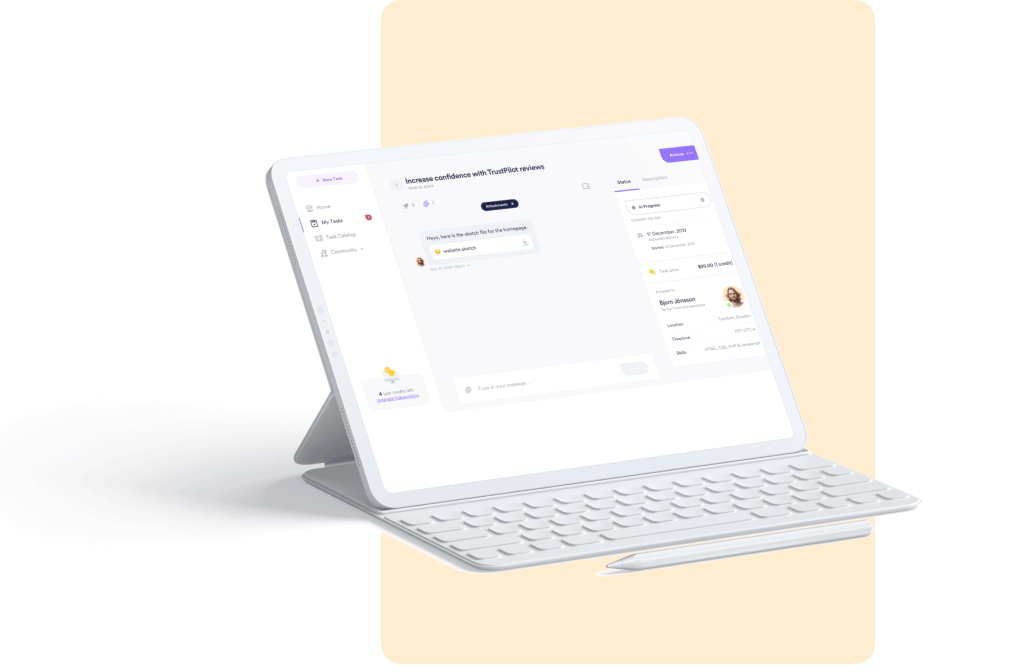
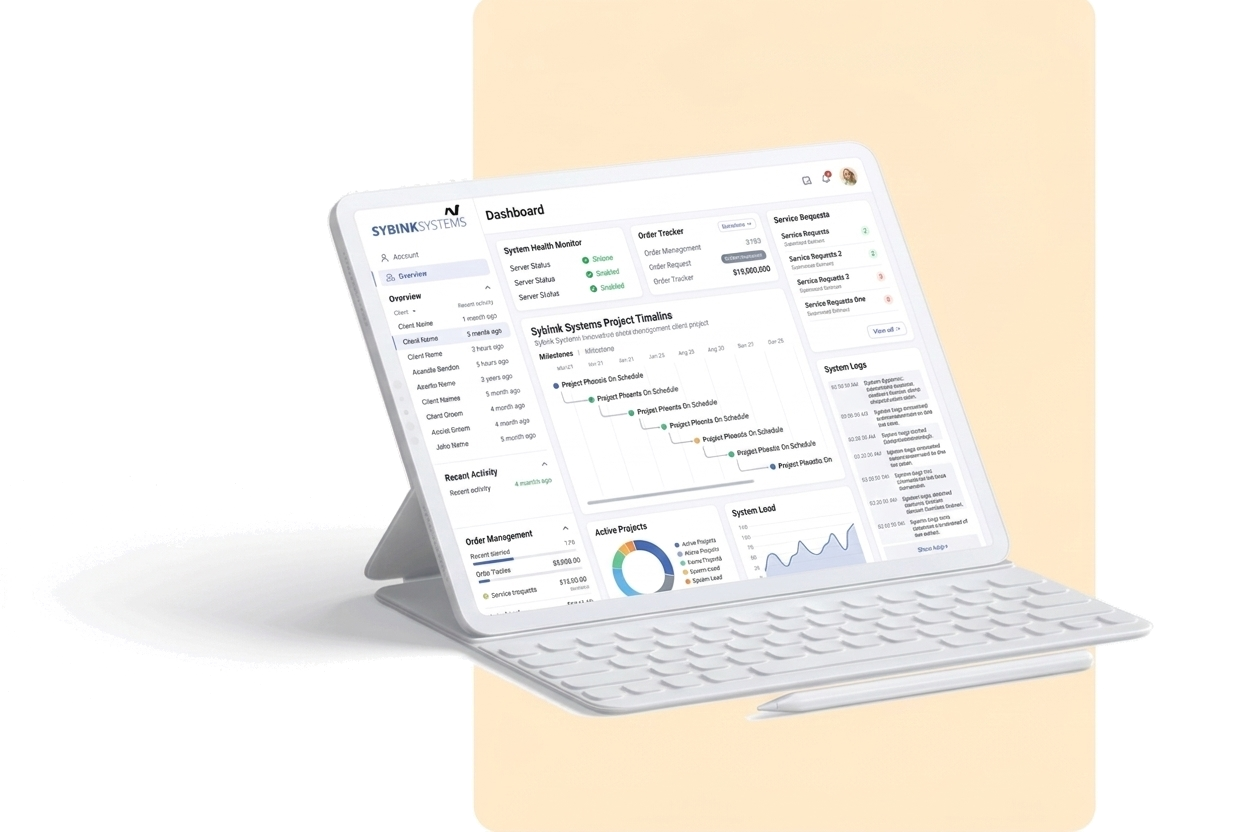
Replacement to new images and other visual tweaks

diff --git a/sybink-site/app/components/Banner/Banner.tsx b/sybink-site/app/components/Banner/Banner.tsx
@@ -1,5 +1,6 @@
 import Link from "next/link";
 import Image from "next/image";
+import { getAssetPath } from "@/app/lib/config";
 
 
 
@@ -7,12 +8,13 @@ const Banner = () => {
     return (
         <main>
             <div className="px-6 lg:px-8">
-                <div className="mx-auto max-w-7xl pt-16 sm:pt-20 pb-20 relative">
+                <div className="mx-auto max-w-7xl pt-20 sm:pt-20 lg:pt-16 pb-20 banner-image">
                     {/* Background only visible on lg screens */}
-                    <div className="absolute inset-0 banner-image hidden lg:block" aria-hidden="true"></div>
+                    {/* <div className="absolute inset-0 banner-image hidden lg:block" aria-hidden="true"></div> */}
                     <div className="text-center">
-                        <h1 className="text-2xl font-semibold text-navyblue sm:text-3xl  lg:text-5xl md:4px lh-66">
-                            market-driven systems, <br />built on proven technology.
+                        {/* <h1 className="text-2xl font-semibold text-navyblue sm:text-3xl lg:text-5xl md:4px lh-66"> */}
+                        <h1 className="text-4xl font-semibold text-navyblue sm:text-5xl  lg:text-7xl md:4px lh-96">
+                            market-driven systems <br />built on proven technology.
                         </h1>
                         <p className="mt-6 text-lg leading-8 text-bluegray" >
                             Sybink Systems delivers innovative software development, web and graphic design, and technology consultancy from our London base.
@@ -34,6 +36,14 @@ const Banner = () => {
                         </Link>
 
                     </div>
+                    {/* <div className="flex justify-center mt-8 ml-10">
+                        <Image
+                            src={getAssetPath('/assets/syspos/banner3.png')}
+                            alt="banner-image"
+                            width={1000}
+                            height={498}
+                        />
+                    </div> */}
 
                     {/* <Image src={'/assets/banner/dashboard.svg'} alt="banner-image" width={1200} height={598} /> */}
                 </div>

diff --git a/sybink-site/app/components/Why/index.tsx b/sybink-site/app/components/Why/index.tsx
@@ -8,7 +8,7 @@ interface whydata {
 
 const whydata: whydata[] = [
     {
-        heading: "market-driven systems, built on proven technology.",
+        heading: "market-driven systems built on proven technology.",
         subheading: `This mindset underpins our strategy, planning, and service delivery. We design, develop, and maintain systems that are scalable, robust, and user-focused, built on proven industry technologies — and our own innovations where needed. Our goal is to equip businesses with the tools to empower their people and deliver their strategy.`,
     },
     {
@@ -23,14 +23,14 @@ We’ve grown steadily by prioritising reputation and service over rapid expansi
 
 const Why = () => {
     return (
-        <div id="about">
+        <div id="about" className="scroll-mt-32">
 
             <div className='mx-auto max-w-7xl px-4 my-20 sm:py-20 lg:px-8'>
                 <div className='grid grid-cols-1 lg:grid-cols-2'>
 
                     {/* COLUMN-1 */}
                     <div className="lg:-ml-64">
-                        <Image src={getAssetPath("/assets/why/iPad.png")} alt="iPad-image" width={4000} height={900} />
+                        <Image src={getAssetPath("/assets/why/iPad2.png")} alt="iPad-image" width={3000} height={800} />
                     </div>
 
                     {/* COLUMN-2 */}

diff --git a/sybink-site/app/components/Banner/Banner_Sentinel.tsx b/sybink-site/app/components/Banner/Banner_Sentinel.tsx
@@ -7,7 +7,9 @@ const Banner = () => {
     return (
         <main>
             <div className="px-6 lg:px-8">
-                <div className="mx-auto max-w-7xl pt-16 sm:pt-20 pb-20 banner-image">
+                <div className="mx-auto max-w-7xl pt-20 sm:pt-20 lg:pt-16 pb-20 banner-image">
+                    {/* Background only visible on lg screens */}
+                    {/* <div className="absolute inset-0 banner-image hidden lg:block" aria-hidden="true"></div> */}
                     <div className="text-center">
                         <h1 className="text-2xl font-semibold text-navyblue sm:text-3xl lg:text-5xl md:4px lh-66">
                             Sentinel Membership Management
@@ -20,8 +22,8 @@ const Banner = () => {
                         <Image 
                             src={getAssetPath('/assets/sentinel/banner.png')} 
                             alt="banner-image" 
-                            width={1000} 
-                            height={498} 
+                            width={1024} 
+                            height={1038} 
                         />
                     </div>
                 </div>

diff --git a/sybink-site/app/components/Banner/Banner_Syspos.tsx b/sybink-site/app/components/Banner/Banner_Syspos.tsx
@@ -7,9 +7,11 @@ const Banner = () => {
     return (
         <main>
             <div className="px-6 lg:px-8">
-                <div className="mx-auto max-w-7xl pt-16 sm:pt-20 pb-20 banner-image">
+                <div className="mx-auto max-w-7xl pt-20 sm:pt-20 lg:pt-16 pb-20 banner-image">
+                    {/* Background only visible on lg screens */}
+                    {/* <div className="absolute inset-0 banner-image hidden lg:block" aria-hidden="true"></div> */}
                     <div className="text-center">
-                        <h1 className="text-2xl font-semibold text-navyblue sm:text-3xl  lg:text-5xl md:4px lh-66">
+                        <h1 className="text-2xl font-semibold text-navyblue sm:text-3xl lg:text-5xl md:4px lh-66">
                             sysPOS Electronic Point of Sale
                         </h1>
                         <p className="mt-6 text-lg leading-8 text-bluegray">
